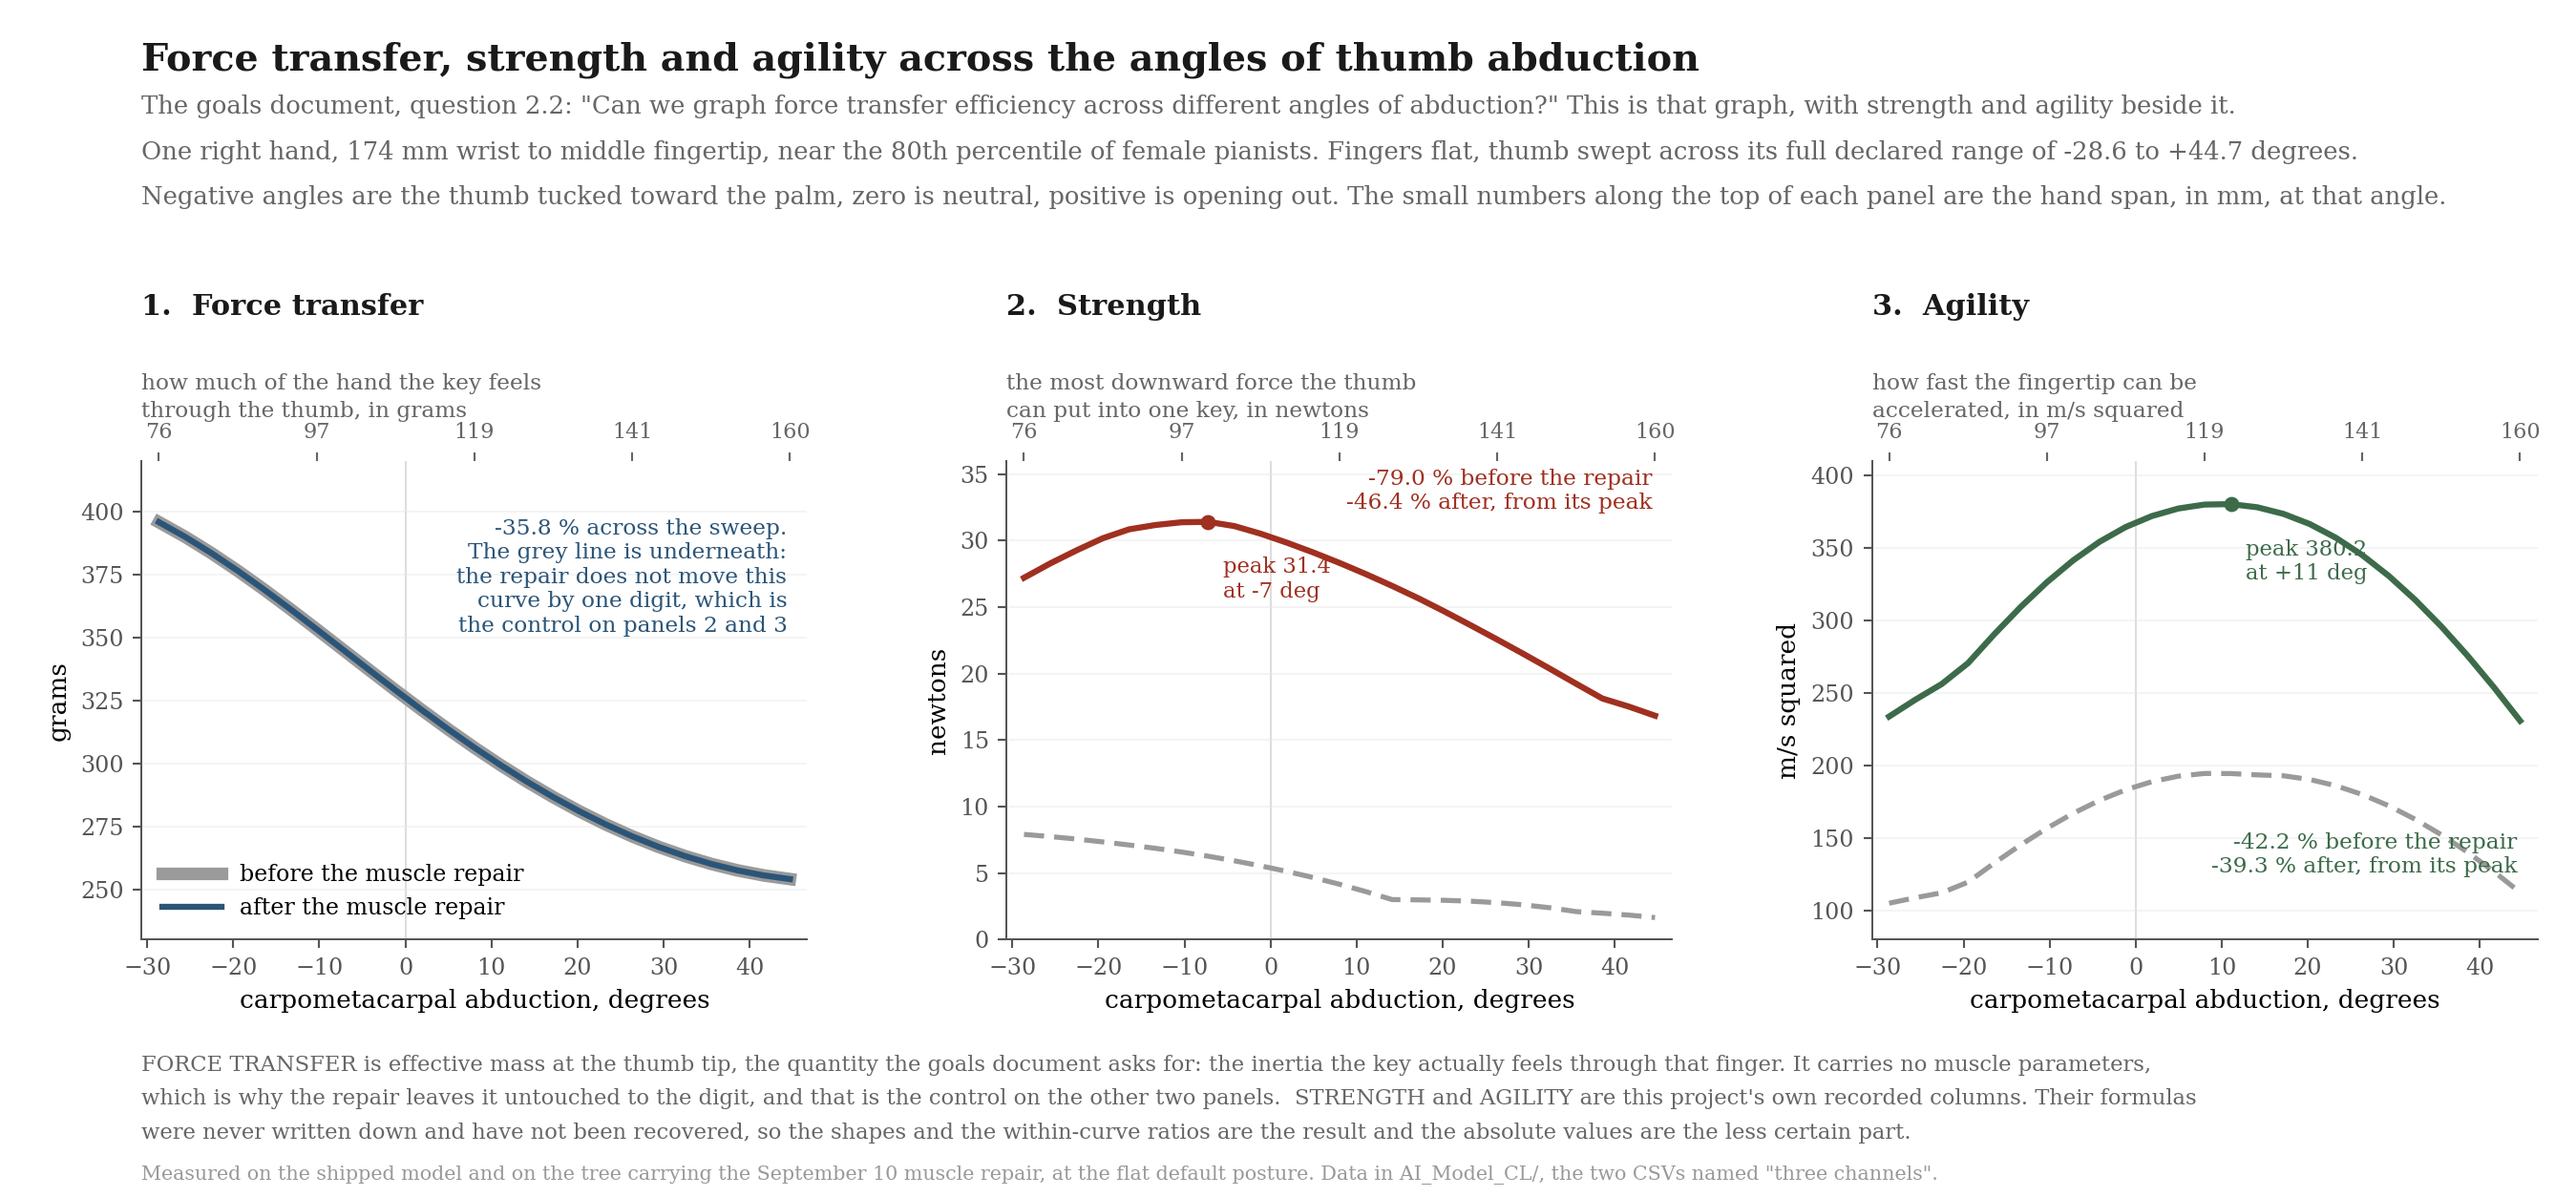
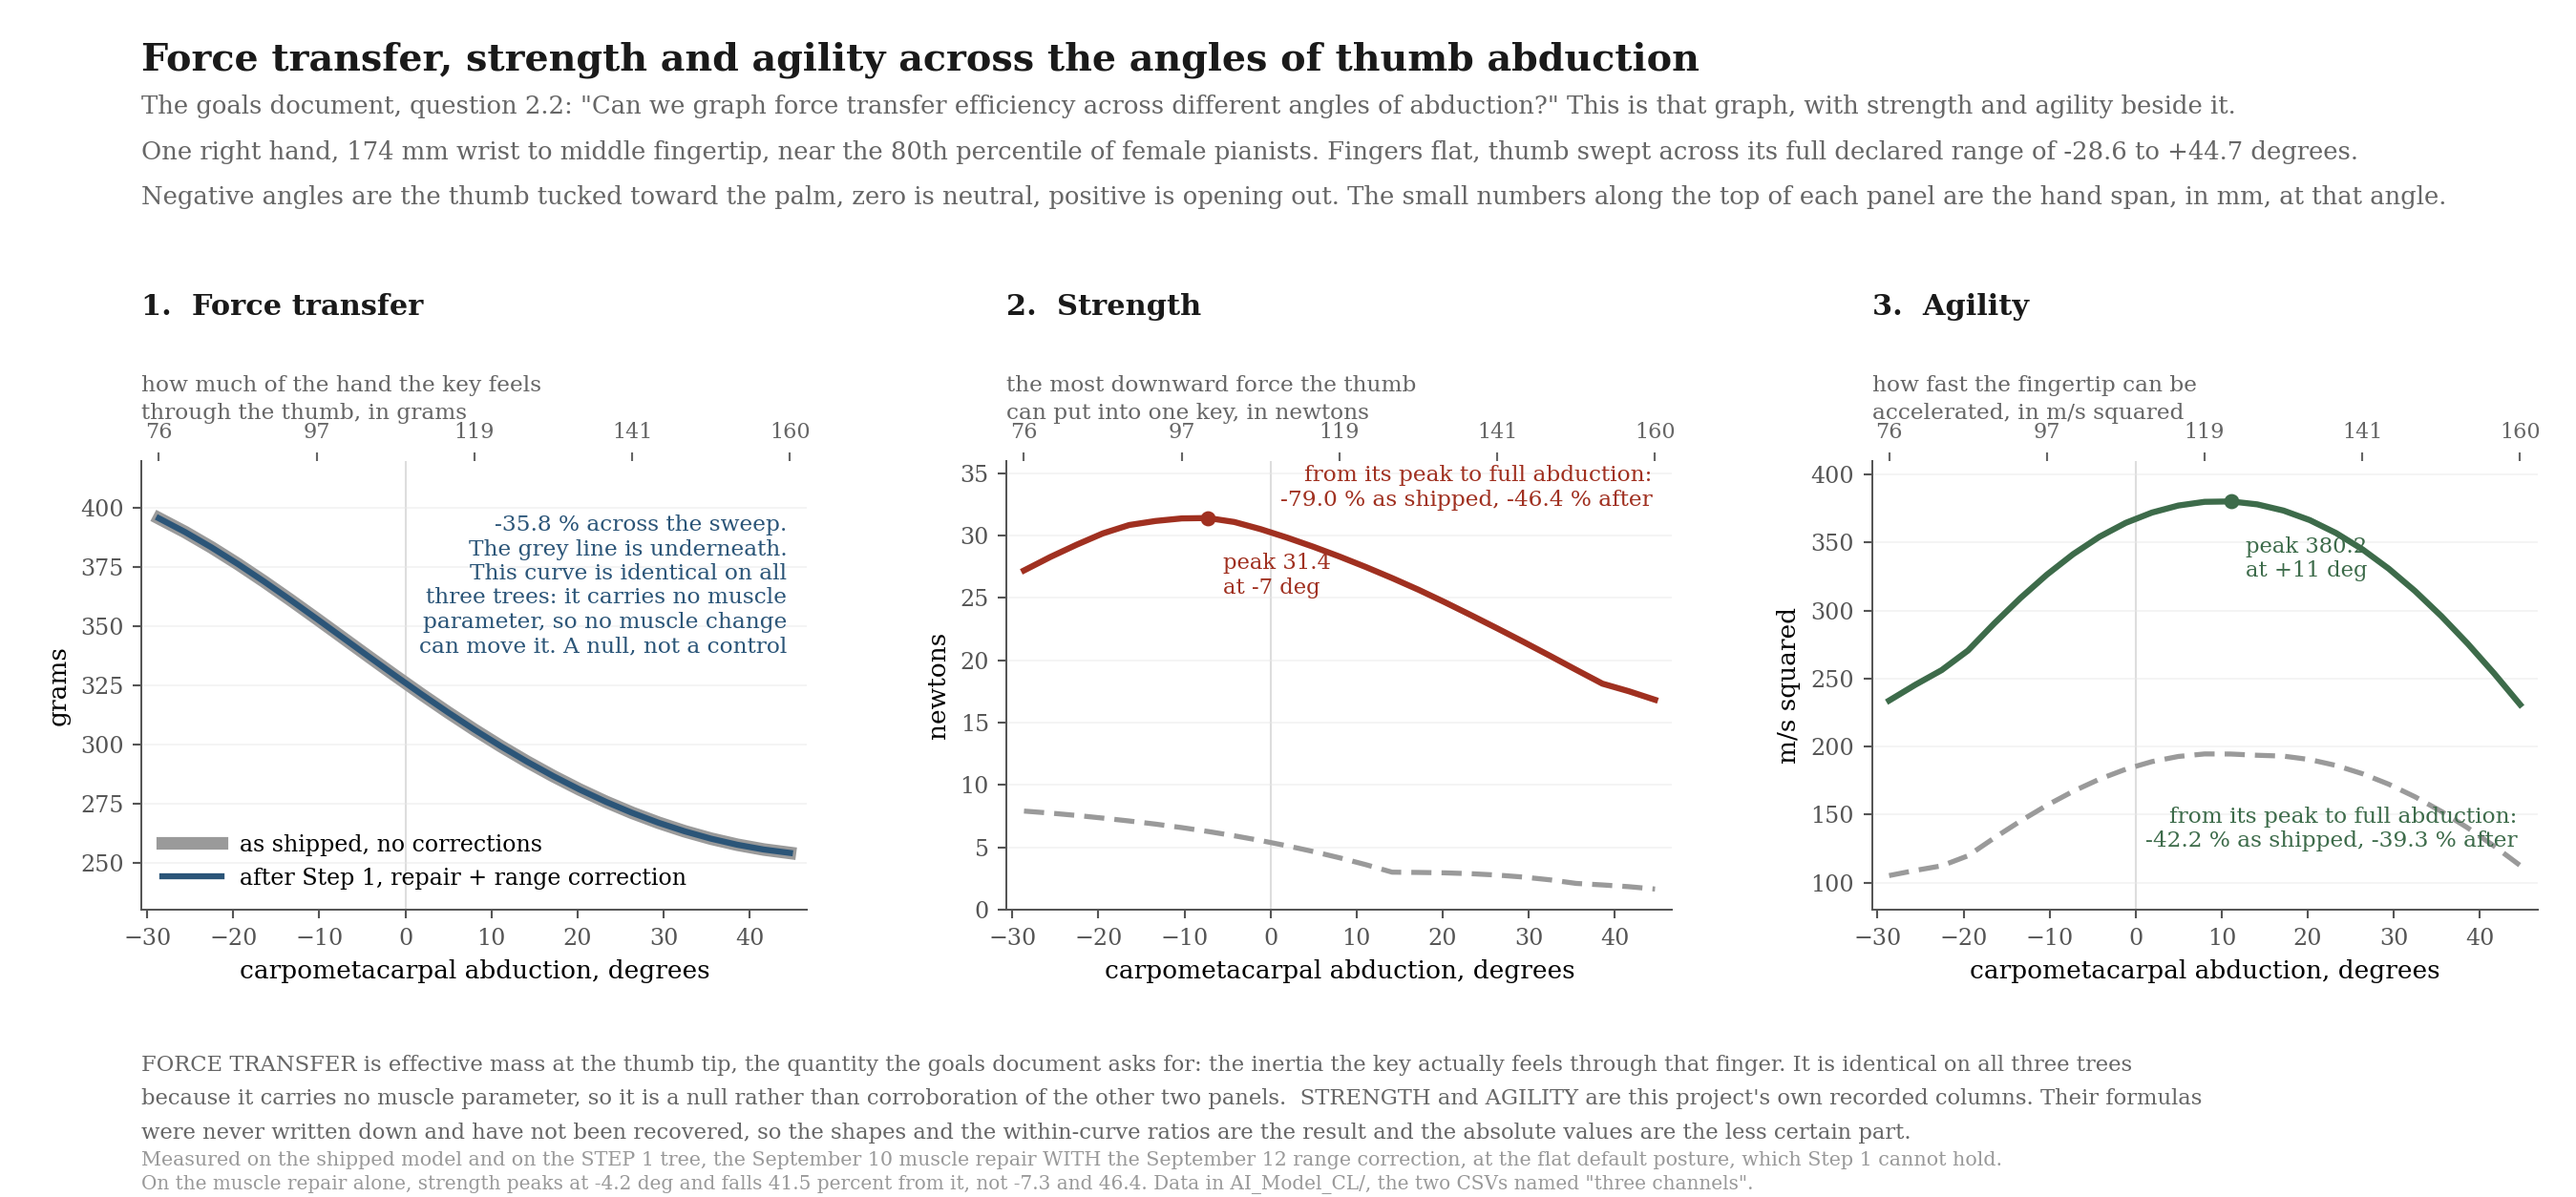
Correct the curve attribution: these are the Step 1 tree, not the muscle repair alone

diff --git a/analysis/plot_abduction_curves_2026-09-28.py b/analysis/plot_abduction_curves_2026-09-28.py
@@ -15,7 +15,7 @@ plt.rcParams.update({'font.family':'serif','font.size':10,'axes.titlesize':11.5,
 INK='#1a1a1a'; RED='#a03020'; BLUE='#2b5578'; GREY='#9a9a9a'; SOFT='#666'
 
 fig=plt.figure(figsize=(14.2,6.6))
-gs=fig.add_gridspec(1,3,wspace=0.30,top=0.615,bottom=0.215,left=0.055,right=0.985)
+gs=fig.add_gridspec(1,3,wspace=0.30,top=0.615,bottom=0.240,left=0.055,right=0.985)
 ax=[fig.add_subplot(gs[0,i]) for i in range(3)]
 
 def span_axis(a):
@@ -29,8 +29,8 @@ panels=[('effMass_g','Force transfer','how much of the hand the key feels\nthrou
         ('agility_mps2','Agility','how fast the fingertip can be\naccelerated, in m/s squared','m/s squared')]
 for i,(k,title,sub,unit) in enumerate(panels):
     a=ax[i]
-    a.plot(d,pre[k],color=GREY,lw=5.0 if k=='effMass_g' else 2.0,ls='-' if k=='effMass_g' else (0,(4,2)),alpha=1.0,label='before the muscle repair')
-    a.plot(d,post[k],color=[BLUE,RED,'#3d6b4a'][i],lw=2.4,label='after the muscle repair')
+    a.plot(d,pre[k],color=GREY,lw=5.0 if k=='effMass_g' else 2.0,ls='-' if k=='effMass_g' else (0,(4,2)),alpha=1.0,label='as shipped, no corrections')
+    a.plot(d,post[k],color=[BLUE,RED,'#3d6b4a'][i],lw=2.4,label='after Step 1, repair + range correction')
     a.axvline(0,color='#dddddd',lw=0.8,zorder=0)
     a.set_title('%d.  %s'%(i+1,title),loc='left',color=INK,fontweight='bold',pad=58)
     a.text(0,1.082,sub,transform=a.transAxes,fontsize=8.8,color=SOFT,va='bottom',linespacing=1.4)
@@ -44,17 +44,18 @@ for i,(k,title,sub,unit) in enumerate(panels):
     span_axis(a)
 ax[0].set_ylim(230,420); ax[1].set_ylim(0,36); ax[2].set_ylim(80,410)
 ax[0].legend(loc='lower left',handlelength=2.6)
-ax[0].text(0.97,0.88,'-35.8 % across the sweep.\nThe grey line is underneath:\nthe repair does not move this\ncurve by one digit, which is\nthe control on panels 2 and 3',transform=ax[0].transAxes,ha='right',va='top',fontsize=8.8,color=BLUE)
-ax[1].text(0.97,0.90,'-79.0 % before the repair\n-46.4 % after, from its peak',transform=ax[1].transAxes,ha='right',fontsize=8.8,color=RED)
-ax[2].text(0.97,0.14,'-42.2 % before the repair\n-39.3 % after, from its peak',transform=ax[2].transAxes,ha='right',fontsize=8.8,color='#3d6b4a')
+ax[0].text(0.97,0.88,'-35.8 % across the sweep.\nThe grey line is underneath.\nThis curve is identical on all\nthree trees: it carries no muscle\nparameter, so no muscle change\ncan move it. A null, not a control',transform=ax[0].transAxes,ha='right',va='top',fontsize=8.8,color=BLUE)
+ax[1].text(0.97,0.90,'from its peak to full abduction:\n-79.0 % as shipped, -46.4 % after',transform=ax[1].transAxes,ha='right',fontsize=8.8,color=RED)
+ax[2].text(0.97,0.14,'from its peak to full abduction:\n-42.2 % as shipped, -39.3 % after',transform=ax[2].transAxes,ha='right',fontsize=8.8,color='#3d6b4a')
 
 fig.suptitle('Force transfer, strength and agility across the angles of thumb abduction',x=0.055,ha='left',fontsize=15,color=INK,fontweight='bold',y=0.965)
 fig.text(0.055,0.905,'The goals document, question 2.2: "Can we graph force transfer efficiency across different angles of abduction?" This is that graph, with strength and agility beside it.',fontsize=9.8,color=SOFT)
 fig.text(0.055,0.867,'One right hand, 174 mm wrist to middle fingertip, near the 80th percentile of female pianists. Fingers flat, thumb swept across its full declared range of -28.6 to +44.7 degrees.',fontsize=9.8,color=SOFT)
 fig.text(0.055,0.829,'Negative angles are the thumb tucked toward the palm, zero is neutral, positive is opening out. The small numbers along the top of each panel are the hand span, in mm, at that angle.',fontsize=9.8,color=SOFT)
-fig.text(0.055,0.105,'FORCE TRANSFER is effective mass at the thumb tip, the quantity the goals document asks for: the inertia the key actually feels through that finger. It carries no muscle parameters,',fontsize=8.6,color=SOFT)
-fig.text(0.055,0.077,'which is why the repair leaves it untouched to the digit, and that is the control on the other two panels.  STRENGTH and AGILITY are this project\'s own recorded columns. Their formulas',fontsize=8.6,color=SOFT)
+fig.text(0.055,0.105,'FORCE TRANSFER is effective mass at the thumb tip, the quantity the goals document asks for: the inertia the key actually feels through that finger. It is identical on all three trees',fontsize=8.6,color=SOFT)
+fig.text(0.055,0.077,'because it carries no muscle parameter, so it is a null rather than corroboration of the other two panels.  STRENGTH and AGILITY are this project\'s own recorded columns. Their formulas',fontsize=8.6,color=SOFT)
 fig.text(0.055,0.049,'were never written down and have not been recovered, so the shapes and the within-curve ratios are the result and the absolute values are the less certain part.',fontsize=8.6,color=SOFT)
-fig.text(0.055,0.014,'Measured on the shipped model and on the tree carrying the September 10 muscle repair, at the flat default posture. Data in AI_Model_CL/, the two CSVs named "three channels".',fontsize=7.8,color='#999')
+fig.text(0.055,0.026,'Measured on the shipped model and on the STEP 1 tree, the September 10 muscle repair WITH the September 12 range correction, at the flat default posture, which Step 1 cannot hold.',fontsize=7.8,color='#999')
+fig.text(0.055,0.006,'On the muscle repair alone, strength peaks at -4.2 deg and falls 41.5 percent from it, not -7.3 and 46.4. Data in AI_Model_CL/, the two CSVs named "three channels".',fontsize=7.6,color='#999')
 fig.savefig(D+"FIGURE, force transfer and agility against abduction angle 2026-09-28.png",dpi=190)
 print("written")

diff --git a/checks/which_tree_is_this.py b/checks/which_tree_is_this.py
@@ -13,8 +13,8 @@ tells you what you actually have.
 
     python3 which_tree_is_this.py <assets_dir>
 
-Exit 0 for a recognised, intentional tree. Exit 1 for the mixed tree or for
-anything unrecognised. No dependencies beyond the standard library.
+Exit 0 for a recognized, intentional tree. Exit 1 for the mixed tree or for
+anything unrecognized. No dependencies beyond the standard library.
 
 Every hash below was measured on September 28, 2026 by building each tree from
 `piano.tar.gz` and reading it, not copied from a document.
@@ -79,7 +79,7 @@ REPORT = {
 
   It offers 0.2412 Nm against opening to an octave, within four percent of the
   0.25 Nm probe Wagner applied to 238 pianists, and it is the only version with
-  that behaviour at all.
+  that behavior at all.
 
   KNOWN AND DOCUMENTED: it cannot hold its own default posture. 15 of 23
   muscle-actuated hand degrees of freedom carry 6.59 Nm that no activation
@@ -129,7 +129,7 @@ def main():
     state = STATES.get(tuple(got))
     print(f"\n  tree: {root}\n")
     if state is None:
-        print("  UNRECOGNISED. These six files match no combination on record.\n")
+        print("  UNRECOGNIZED. These six files match no combination on record.\n")
         for (sub, name), h in zip(SIX, got):
             print(f"    {h}  {sub}/{name}")
         print("\n  Either something else has been edited, or this is a version newer than")
